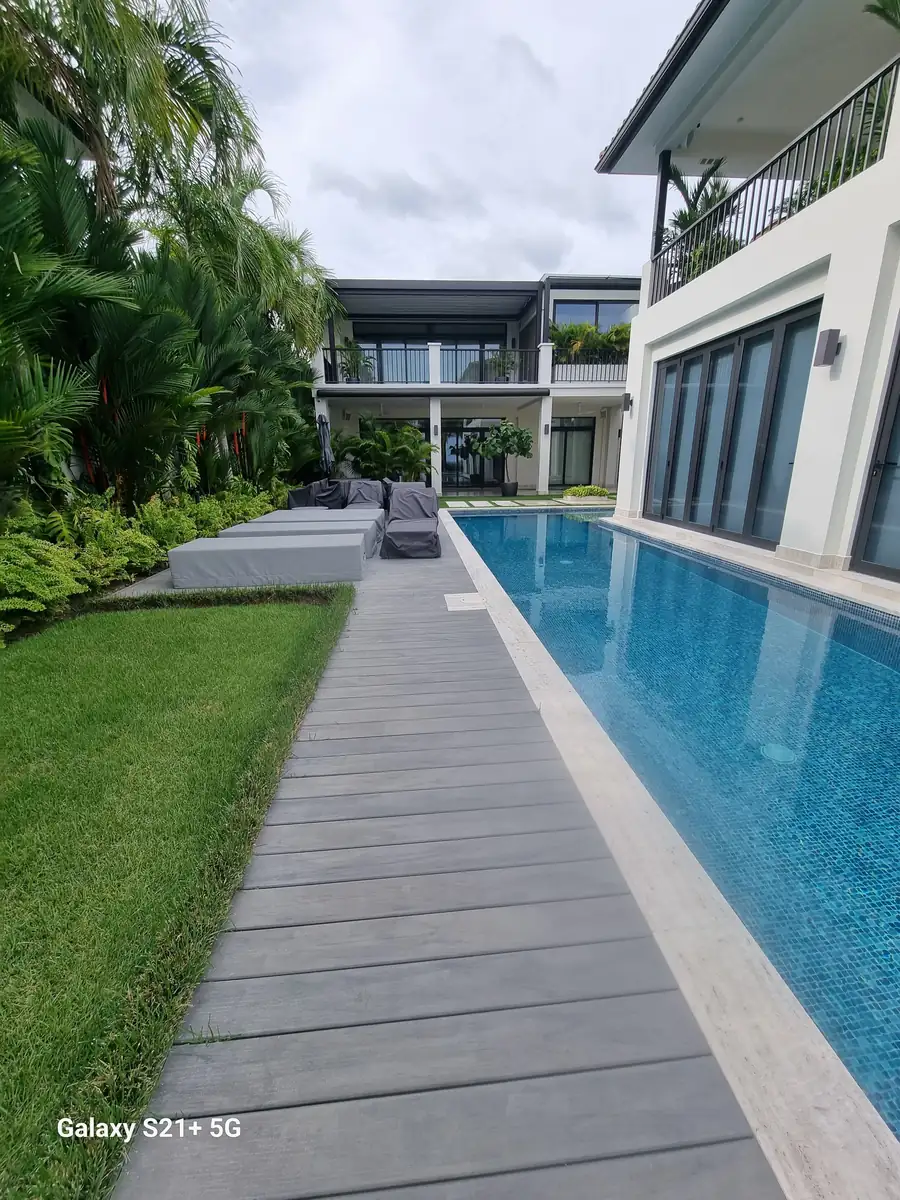
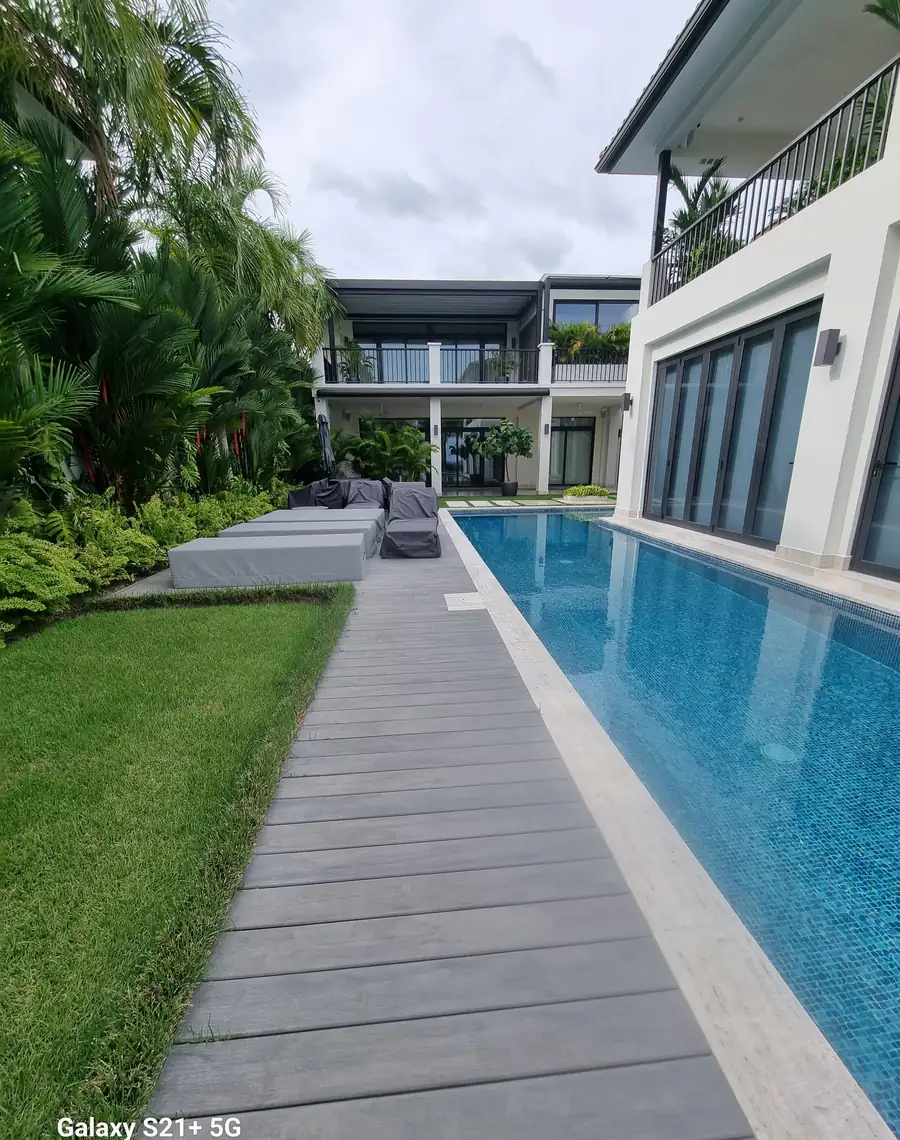
Crop the pool watermark and lift the mobile WhatsApp button.
The Galaxy S21 mark is cut from the pool photo. On phones the button sits on the hero image, clear of the paragraph. The client strip stays visible.

diff --git a/components/layout/WhatsAppFloat.tsx b/components/layout/WhatsAppFloat.tsx
@@ -9,7 +9,7 @@ export function WhatsAppFloat({ whatsapp }: { whatsapp: string }) {
       target="_blank"
       rel="noopener noreferrer"
       aria-label="WhatsApp"
-      className="fixed bottom-24 right-4 z-30 flex h-14 w-14 items-center justify-center rounded-full bg-whatsapp text-on-accent shadow-lg transition-transform hover:-translate-y-0.5 active:scale-95 focus-visible:outline focus-visible:outline-2 focus-visible:outline-offset-2 focus-visible:outline-primary md:bottom-5"
+      className="fixed right-4 top-24 z-30 flex h-14 w-14 items-center justify-center rounded-full bg-whatsapp text-on-accent shadow-lg transition-transform hover:-translate-y-0.5 active:scale-95 focus-visible:outline focus-visible:outline-2 focus-visible:outline-offset-2 focus-visible:outline-primary md:top-auto md:bottom-5"
     >
       <WhatsAppIcon className="h-7 w-7" />
     </a>
